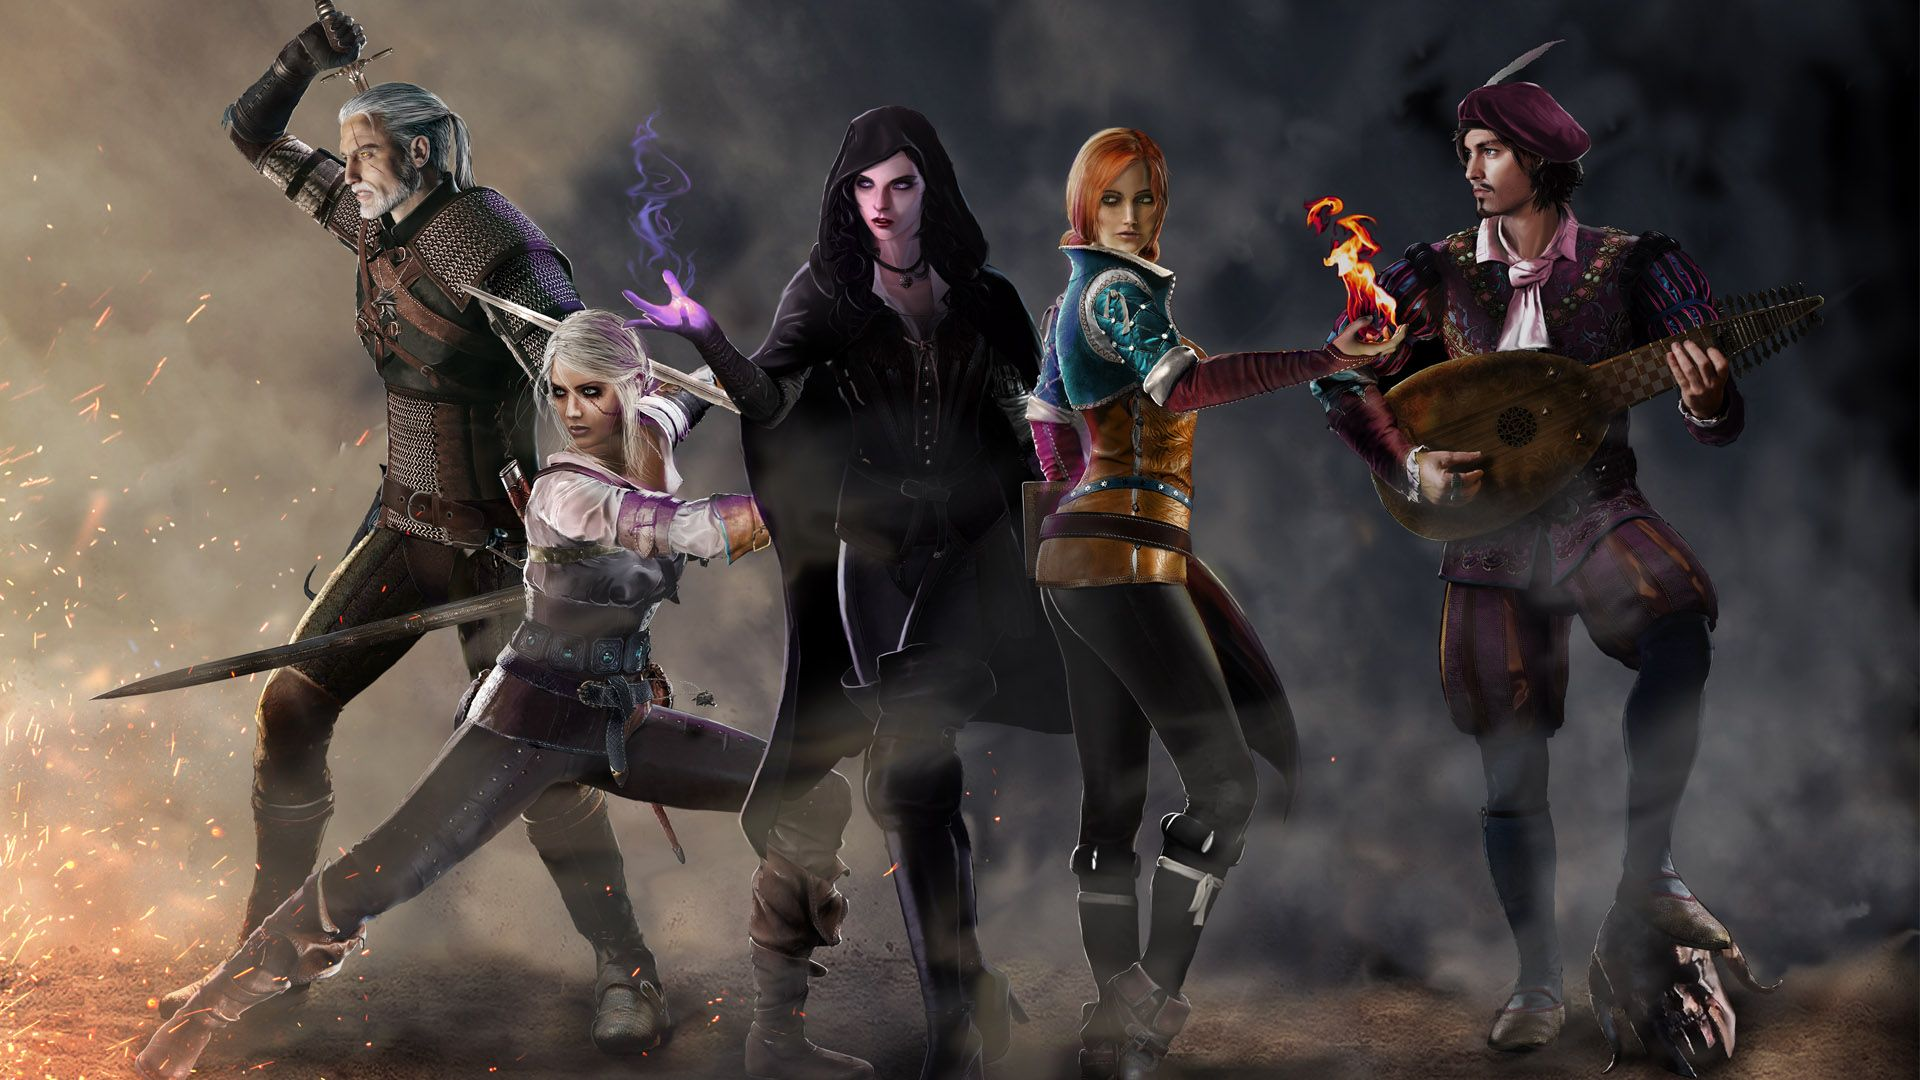
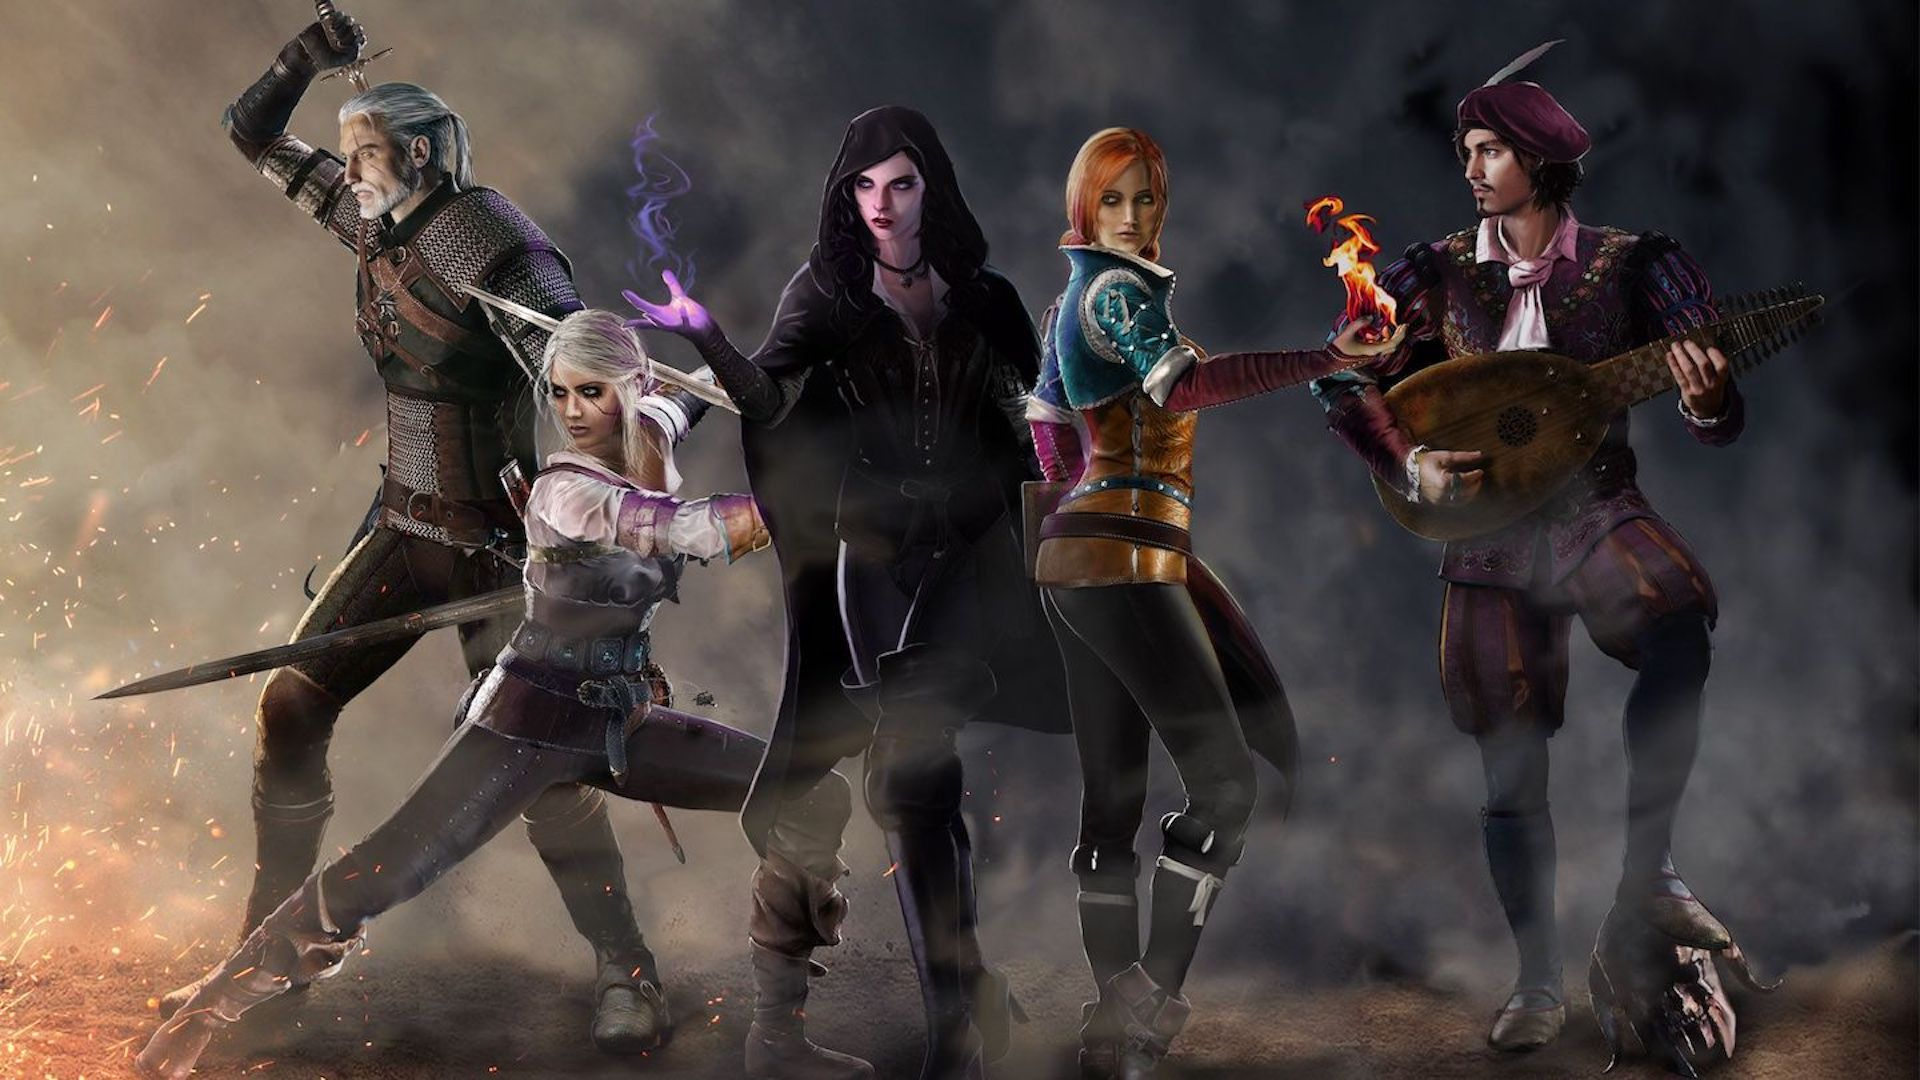
fixed footer link and updated carousel image 2

diff --git a/src/Components/Carousel.js b/src/Components/Carousel.js
@@ -1,6 +1,6 @@
 import React, { Component } from "react";
 import { Carousel, Button } from "react-bootstrap";
-import GeraltTavern from "../Images/Carousel/GeraltTavern.webp";
+import Geralt from "../Images/Carousel/Geralt.jpg";
 import Travelers from "../Images/Carousel/Travelers.jpeg";
 import GroupCheers from "../Images/Carousel/GroupCheers.webp";
 
@@ -17,7 +17,7 @@ export class Slideshow extends Component {
           <Carousel.Caption>
             <h3 class="witcher-font">Travelers</h3>
             <p class="witcher-font">
-              Learn about the wonderful authors that graced a humble blogger
+              Learn about the wonderful authors that graced this humble blog
               with recipes galore
               <br />
               <br />
@@ -30,18 +30,18 @@ export class Slideshow extends Component {
         <Carousel.Item interval={5000} className="CarouselOpacity">
           <img
             className="d-block w-100"
-            src={GeraltTavern}
+            src={Geralt}
             alt="Man teleporting onto a table"
           />
           <Carousel.Caption>
             <h3 class="witcher-font">"Hmmm..." -Geralt of Rivia</h3>
             <p class="witcher-font">
-              Join Geralt as he recounts his tales of gourmet adventures on the
+              Join Geralt as he recounts his tales<br />of gourmet adventures on the
               Continent.
               <br />
               <br />
-              <Button variant="danger" href="/About">
-                Tell me a story
+              <Button variant="danger" href="/Recipes">
+                Explore Recipes
               </Button>
             </p>
           </Carousel.Caption>
@@ -53,13 +53,13 @@ export class Slideshow extends Component {
             alt="Group in tarvern cheersing"
           />
           <Carousel.Caption>
-            <h3 class="witcher-font">Taste of Hearth</h3>
+            <h3 class="witcher-font">"Nonsense...And What's More, It Doesn't Rhyme.<br /> All Decent Predictions Rhyme."</h3>
             <p class="witcher-font">
-              Check out the recipes gathered from across the Continent!
+              Have any questions?
               <br />
               <br />
-              <Button variant="danger" href="/Recipes">
-                Get Cookin'
+              <Button variant="danger" href="/Contact">
+                Send us a sonnet
               </Button>
             </p>
           </Carousel.Caption>

diff --git a/src/Components/Navbar.js b/src/Components/Navbar.js
@@ -47,7 +47,7 @@ const Navigation = (props) => {
           <Nav.Link className="NavbarHover" href="/Contact">
             Contact
           </Nav.Link>
-          <Nav.Link className="NavbarHover" href="/Sign Up">
+          <Nav.Link className="NavbarHover" href="/SignUp">
             Sign Up
           </Nav.Link>
         </Nav>

diff --git a/src/App.js b/src/App.js
@@ -30,7 +30,7 @@ function App() {
           />
 
           <Route path="/Recipes" component={RecipesHome} />
-          <Route path="/Sign Up" component={SignUp} />
+          <Route path="/SignUp" component={SignUp} />
           <Route path="/Contact" component={ContactPage} />
 
           <Route
